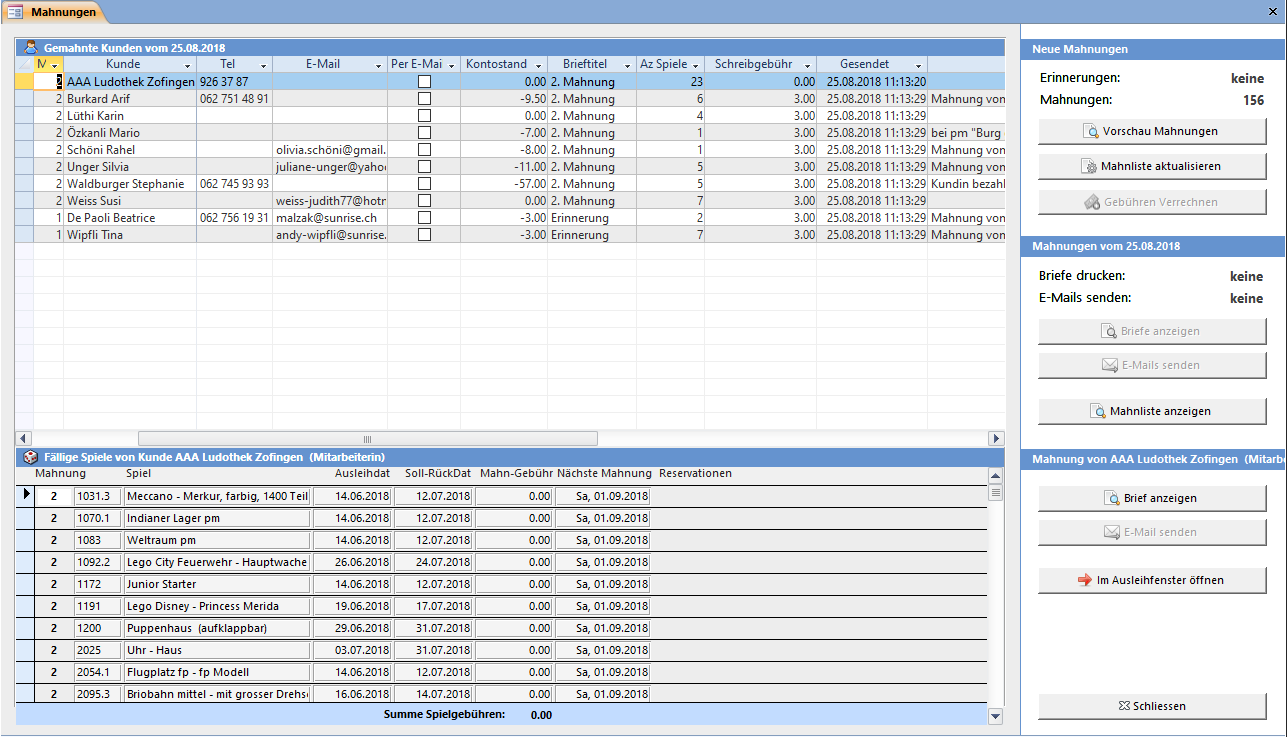
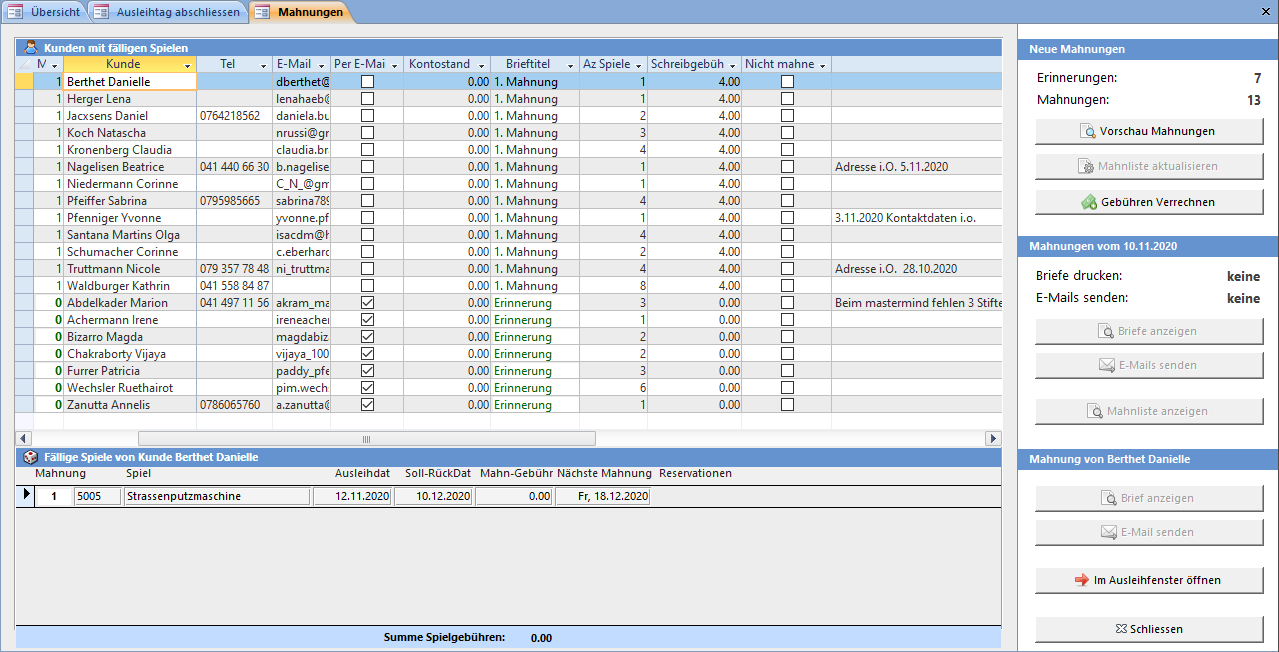
reorganize

diff --git a/user/pages/06.etiketten-briefe/03.mahnungen-drucken/docs.de.md b/user/pages/06.etiketten-briefe/03.mahnungen-drucken/docs.de.md
@@ -8,9 +8,9 @@ visible: true
 
 Das **Mahnungen drucken** Fenster kann mit der **Übersicht** oder beim **Beenden** von LUPO geöffnet werden.
 
-![mahnungen-drucken](../../images/mahnungen-drucken.png)
-
-Neue Mahnungen können für Spiele erstellt werden, deren Mahndatum in der Vergangenheit liegt. Bis eine gedruckt oder per E-Mail versendet werden kann, sind vier Schritte vorzunehmen:
+Neue Mahnungen können für Spiele erstellt werden, deren Mahndatum in der Vergangenheit liegt.
+Erinnerungen werden erstellt, wenn das Rückgabedatum in weniger als die bei den Einstellungen definierte Anzahl Tage liegt.
+Bis eine Erinnerung oder Mahnung gedruckt oder per E-Mail versendet werden kann, sind vier Schritte vorzunehmen:
 
 
 !! Mahnungen müssen nach dem Ausleihtag erstellt werden. Sonst ist der Kunde bereits gemahnt, auch wenn er das Spiel noch am selben Tag zurückbringt.
@@ -21,6 +21,8 @@ Beim Aktualisieren der Mahnliste werden alle fälligen Spiele gefunden und nach 
 
 **ACHTUNG**: Beim Aktualisieren der Mahnliste werden die bestehenden Mahnungen überschrieben!
 
+![mahnungen-drucken](../../images/mahnungen-drucken.png)
+
 ### 2\. Mahnliste kontrollieren
 
 Alle Kunden in der oberen Liste erhalten eine Mahnung. Soll ein Kunde nicht gemahnt werden, so muss ein Häkchen in der Spalte **Nicht mahnen** gesetzt werden.
@@ -28,6 +30,8 @@ Alle Kunden in der oberen Liste erhalten eine Mahnung. Soll ein Kunde nicht gema
 ### 3\. Gebühren Verrechnen
 
 Nachdem Sie die Gebühren verrechnet haben, können die Briefe angezeigt und E-Mails gesendet werden.
+
+![mahnungen-drucken](../../images/mahnungen-drucken-2.png)
 
 ### 4\. Mahnbriefe drucken / E-Mails senden
 

diff --git a/user/pages/02.installation/07.epson-bondrucker/docs.de.md b/user/pages/02.installation/07.epson-bondrucker/docs.de.md
@@ -52,7 +52,7 @@ Mit einem Klick auf das Symbol ganz links (Add New Device) öffnet sich folgende
 
 #### LUPO konfigurieren
 
-Nach der Installation und Konfiguration des Druckertreibers muss im LUPO bei den [Bondrucker-Programmeinstellungen](/einstellungen/allgemeine-einstellungen/bondrucker) noch das Druckermodell bestimmt werden. Wählen Sie dazu im Auswahlfeld POS-Printer Ihr Bondruckermodell (TM-U220D, TM-T88III, TM-T88IV, TM-T20, TM-T20II oder TM-T20III) aus.
+Nach der Installation und Konfiguration des Druckertreibers muss im LUPO bei den [Bondrucker-Programmeinstellungen](../../../../index.phpgen/allgemeine-einstellungen/bondrucker) noch das Druckermodell bestimmt werden. Wählen Sie dazu im Auswahlfeld POS-Printer Ihr Bondruckermodell (TM-U220D, TM-T88III, TM-T88IV, TM-T20, TM-T20II oder TM-T20III) aus.
 
 ![lupo_drucker_konfigurieren](../../images/bondrucker.png)
 

diff --git a/user/pages/03.start/11.beenden/docs.de.md b/user/pages/03.start/11.beenden/docs.de.md
@@ -1,0 +1,13 @@
+---
+title: LUPO Beenden
+taxonomy:
+    category:
+        - docs
+visible: true
+---
+
+Das **Tag abschliessen** Fenster kann via dem **Menüband** (Beenden) oder der Übersicht geöffnet werden.
+
+![beenden](../../images/beenden.png)
+
+Der Beenden-Assistent zeigt die auszuführenden Schritte an, welche normalerweise vor dem Ende des Ausleihtages ausgeführt werden.

diff --git a/user/pages/02.installation/06.dymo-labelwriter/docs.de.md b/user/pages/02.installation/06.dymo-labelwriter/docs.de.md
@@ -10,7 +10,7 @@ visible: true
 
 Installieren Sie – bevor Sie den Drucker am PC anschliessen – die Software DYMO Label v.8.7.3
 
-[Download DYMO Label v.8.7](https://www.ludothekprogramm.ch/download/item/dymo)
+[Download DYMO Label v.8.7](../../../../index.php.ludothekprogramm.ch/download/item/dymo)
 
 !! Die Software **DYMO Connect for Desktop** wird von LUPO nicht unterstützt
 
